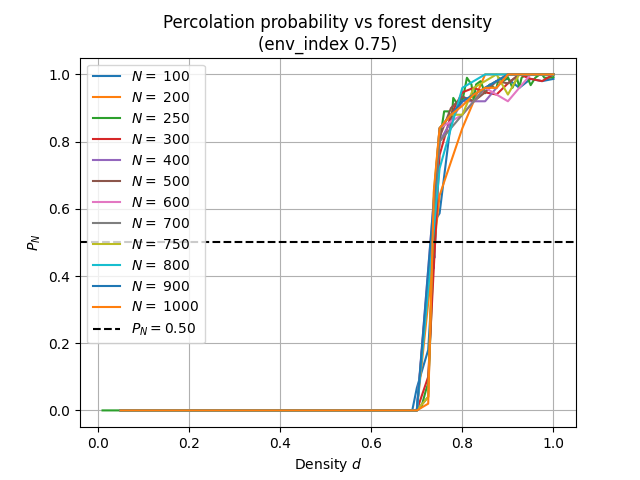
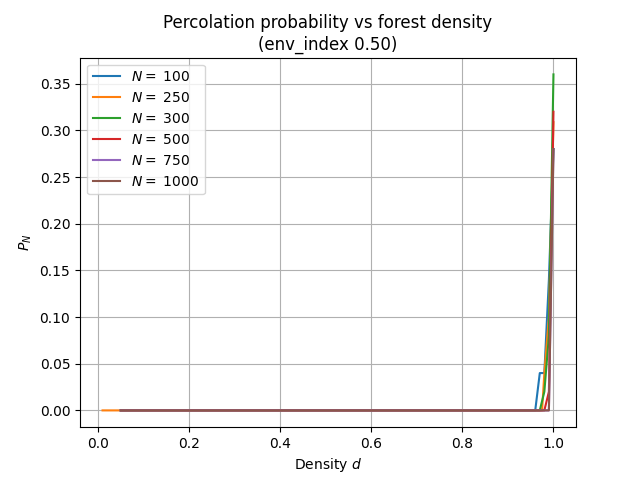
Plots almost final

diff --git a/ForestFirePercolation/src/plots/plot_generator.py b/ForestFirePercolation/src/plots/plot_generator.py
@@ -23,6 +23,7 @@ class PlotGenerator:
         self.critical_points = {'base': 0.596,
                                 'wind': 0.549,
                                 'env_index':  0.7375,
+                                'env_050': 0.95,
                                 'env_wind': 0.883,
                                 'plant': 0.661}
         self.critical_points_dens = read_critical_values_json()
@@ -202,13 +203,16 @@ class PlotGenerator:
         """
         env_index_dict = self.result_filter.init_env_index_dict(self.results_per_system_size, self.critical_points)
         env_index_results = self.result_filter.env_075_filter(self.results_per_system_size)
+        env_index_050_results = self.result_filter.env_050_filter(self.results_per_system_size)
         title = "Percolation probability vs forest density\n(environmental influences)"
         title2 = "Percolation probability vs forest density\n(env_index 0.75)"
-        title3 = "Percolation probability vs forest density around the critical point\n(env_index 0.75)"
+        title3 = "Percolation probability vs forest density\n(env_index 0.50)"
+        title4 = "Percolation probability vs forest density around the critical point\n(env_index 0.75)"
         self.generate_single_size_multiple_settings_plot(env_index_dict, title, '300', 'single_percolation_env_index')
-        self.generate_percolation_multi_plot(env_index_results, title2, 'multi_percolation_env_index',
+        self.generate_percolation_multi_plot(env_index_results, title2, 'multi_percolation_env_index_075',
                                              self.critical_points['env_index'])
-        self.generate_critical_point_multi_plot(env_index_results, title3, 'multi_percolation_critical_env_index',
+        self.generate_percolation_multi_plot(env_index_050_results, title3, 'multi_percolation_env_index_050')
+        self.generate_critical_point_multi_plot(env_index_results, title4, 'multi_percolation_critical_env_index',
                                                 self.critical_points['env_index'])
 
     def generate_env_index_050_and_wind_experiment_plots(self):
@@ -246,6 +250,11 @@ class PlotGenerator:
         self.generate_percolation_multi_plot(plant_results, title, 'multi_percolation_plant', self.critical_points['plant'])
         self.generate_critical_point_multi_plot(plant_results, title2, 'multi_percolation_plant_critical',
                                                 self.critical_points['plant'])
+
+    def generate_everything_plot(self):
+        everything_dict = self.result_filter.init_all_settings_dict(self.results_per_system_size, self.critical_points)
+        title = "Percolation probability vs forest density\n(all)"
+        self.generate_single_size_multiple_settings_plot(everything_dict, title, '1000', 'single_all_systems')
 
     def generate_SOC_plots(self, filtered_results, title, file_name):
         self.cluster_size_plot.plot_single_cluster_size(filtered_results, '1000', title, file_name + '_single_1000')

diff --git a/ForestFirePercolation/src/results/result_filter.py b/ForestFirePercolation/src/results/result_filter.py
@@ -75,14 +75,16 @@ class ResultFilter:
         return {
             key: [result for result in value if self.env_050_conditions(result)]
             for key, value in results_per_system_size.items()
-            if any(self.env_050_conditions(result) for result in value)
+            if any(self.env_050_conditions(result) for result in value) and key in ['100', '250', '300', '500', '750',
+                                                                                    '1000']
         }
 
     def env_075_filter(self, results_per_system_size):
         return {
             key: [result for result in value if self.env_075_conditions(result)]
             for key, value in results_per_system_size.items()
-            if any(self.env_075_conditions(result) for result in value)
+            if any(self.env_075_conditions(result) for result in value) and key in ['100', '250', '300', '500', '750',
+                                                                                    '1000']
         }
 
     def env_075_at_critical_filter(self, results_per_system_size, critical_value):
@@ -208,3 +210,20 @@ class ResultFilter:
         }
         return results_dict
 
+    def init_all_settings_dict(self, results_per_system_size, critical_point_dict):
+        base_results = self.no_wind_filter(results_per_system_size)
+        wind_results = self.wind_filter(results_per_system_size)
+        env_075_results = self.env_075_filter(results_per_system_size)
+        env_050_results = self.env_050_filter(results_per_system_size)
+        plant_results = self.plant_filter(results_per_system_size)
+        results = [base_results, wind_results, env_075_results, env_050_results, plant_results]
+        critical_points = [critical_point_dict['base'], critical_point_dict['wind'], critical_point_dict['env_index'],
+                           critical_point_dict['env_050'], critical_point_dict['plant']]
+        label_suffixes = [' (base)', ' (wind)', ' (env 0.75)', '(env 0.5)', ' (plants)']
+        results_dict = {
+            'results': results,
+            'critical_points': critical_points,
+            'label_suffixes': label_suffixes,
+            'colors': self.colors
+        }
+        return results_dict

diff --git a/ForestFirePercolation/src/plots/multi_setting_plot.py b/ForestFirePercolation/src/plots/multi_setting_plot.py
@@ -28,6 +28,7 @@ class MultiSettingPlot(PercolationPlot):
         critical_points = results_dict['critical_points']
         label_suffixes = results_dict['label_suffixes']
         results_index = 0
+        found_critical_point = False
         for results_per_system_size in results_per_setting:
             if single_size:
                 self.save_amount_percolated_per_density(results_per_system_size[single_size])
@@ -41,8 +42,10 @@ class MultiSettingPlot(PercolationPlot):
             # Add critical point and/or zoom in on critical point
             critical_point = critical_points[results_index]
             if critical_point != 0.0:
-                ax.axhline(y=0.5, ls='--', label=r'$P_N = 0.50$', color='black')
+                found_critical_point = True
             results_index += 1
+        if found_critical_point:
+            ax.axhline(y=0.5, ls='--', label=r'$P_N = 0.50$', color='black')
         if plot_critical:
             ax.set_xlim(critical_points[0] - 0.05, critical_points[-1] + 0.05)
         ax.grid()

diff --git a/ForestFirePercolation/src/main_generate_plots.py b/ForestFirePercolation/src/main_generate_plots.py
@@ -3,11 +3,12 @@ from plots.plot_generator import PlotGenerator
 if __name__ == "__main__":
     generator = PlotGenerator("Snellius/Snellius_Data_Full.csv")
     # generator = PlotGenerator("Simulation_data_critpoints.csv")
-    # generator.generate_base_experiment_plots()
-    # generator.generate_wind_experiment_plots()
-    # generator.generate_env_index_experiment_plots()
-    # generator.generate_env_index_050_and_wind_experiment_plots()
-    # generator.generate_plant_experiment_plots()
+    generator.generate_base_experiment_plots()
+    generator.generate_wind_experiment_plots()
+    generator.generate_env_index_experiment_plots()
+    generator.generate_env_index_050_and_wind_experiment_plots()
+    generator.generate_plant_experiment_plots()
+    generator.generate_everything_plot()
     generator.generate_base_SOC_plots()
     generator.generate_wind_SOC_plots()
     generator.generate_env_wind_SOC_plots()
